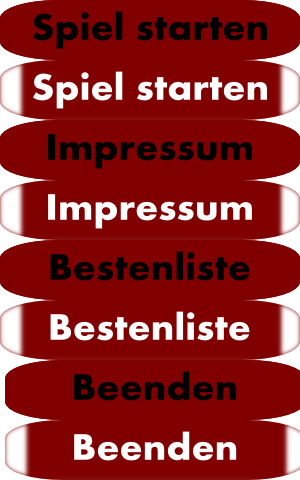
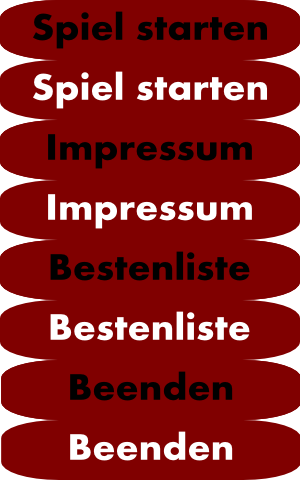
Menü fast fertig! :)

diff --git a/src/Menu.java b/src/Menu.java
@@ -1,4 +1,5 @@
 import java.awt.Toolkit;
+import java.awt.event.MouseAdapter;
 import java.awt.event.MouseEvent;
 import java.awt.event.MouseListener;
 
@@ -10,28 +11,51 @@ import javax.swing.JLayeredPane;
 
 public class Menu extends JLayeredPane {
 	public Menu(GraphicManager graphicManager) {
-		int left = 640*1366/1600;
+		int left = 630*1366/1600;
 		int top = 270*768/900;
 		int width = 300;
 		int height = 60;
+		int height_gab = height + 20;
+		
+		setOpaque(true);
+
 		
 		JLabel start = new JLabel();
 		Icon start_icon = new ImageIcon(graphicManager.startMenueButtons.getImage(0,0));
-		Icon start_icon_hover = new ImageIcon(graphicManager.startMenueButtons.getImage(1,0));
+		Icon start_icon_hover = new ImageIcon(graphicManager.startMenueButtons.getImage(0,1));
 		start.setIcon(start_icon);
 		start.setBounds(left, top, width, height);
-		start.addMouseListener(new MouseAction(start_icon, start_icon_hover));
+		start.addMouseListener(new MouseAction('s', start_icon, start_icon_hover));
 		add(start, 100);
+
+		JLabel high = new JLabel();
+		Icon high_icon = new ImageIcon(graphicManager.startMenueButtons.getImage(0,4));
+		Icon high_icon_hover = new ImageIcon(graphicManager.startMenueButtons.getImage(0,5));
+		high.setIcon(high_icon);
+		high.setBounds(left, top+height_gab, width, height);
+		high.addMouseListener(new MouseAction('h', high_icon, high_icon_hover));
+		add(high, 110);
+		
+		JLabel impr = new JLabel();
+		Icon impr_icon = new ImageIcon(graphicManager.startMenueButtons.getImage(0,2));
+		Icon impr_icon_hover = new ImageIcon(graphicManager.startMenueButtons.getImage(0,3));
+		impr.setIcon(impr_icon);
+		impr.setBounds(left, top+2*height_gab, width, height);
+		impr.addMouseListener(new MouseAction('i', impr_icon, impr_icon_hover));
+		add(impr, 102);
 		
 		JLabel end = new JLabel();
-		Icon end_icon = new ImageIcon(graphicManager.startMenueButtons.getImage(2,0));
-		Icon end_icon_hover = new ImageIcon(graphicManager.startMenueButtons.getImage(3,0));
-		end.setIcon(start_icon);
-		end.setBounds(left, top, width, height);
-		end.addMouseListener(new MouseAction(end_icon, end_icon_hover));
-		add(end, 100);
+		Icon end_icon = new ImageIcon(graphicManager.startMenueButtons.getImage(0,6));
+		Icon end_icon_hover = new ImageIcon(graphicManager.startMenueButtons.getImage(0,7));
+		end.setIcon(end_icon);
+		end.setBounds(left, top+4*height_gab, width, height);
+		end.addMouseListener(new MouseAction('e', end_icon, end_icon_hover));
+		add(end, 103);
 		
-		add(new JLabel("test"));
+		JLabel bg = new JLabel(new ImageIcon(graphicManager.startMenueBG.getImage()));
+		bg.setBounds(0, 0, 1366, 768);
+		add(bg, 10);
+		
 		
 		setBounds(0,0,1366,768);
 		setVisible(true);
@@ -40,15 +64,27 @@ public class Menu extends JLayeredPane {
 	class MouseAction implements MouseListener {
 		private Icon standard;
 		private Icon hover;
+		private char act;
 		
-		public MouseAction(Icon standard, Icon hover) {
+		public MouseAction(char act, Icon standard, Icon hover) {
 			this.standard = standard;
 			this.hover = hover;
+			this.act = act;
 		}
 		
 		@Override
 		public void mouseClicked(MouseEvent e) {
-			// TODO start game
+			switch(act) {
+				case 's':
+					break;
+				case 'e':
+					System.exit(0);
+					break;
+				case 'i':
+					break;
+				case 'h':
+					break;
+			}
 		}
 
 		@Override
@@ -80,7 +116,7 @@ public class Menu extends JLayeredPane {
 	    gameView.setResizable(false);
 	    gameView.setDefaultCloseOperation(JFrame.EXIT_ON_CLOSE);
 	    gameView.setVisible(true);
-	    gameView.add(new JLabel("test"));
+	    
 	    gameView.add(new Menu(graphicManager));
 	}
 }
